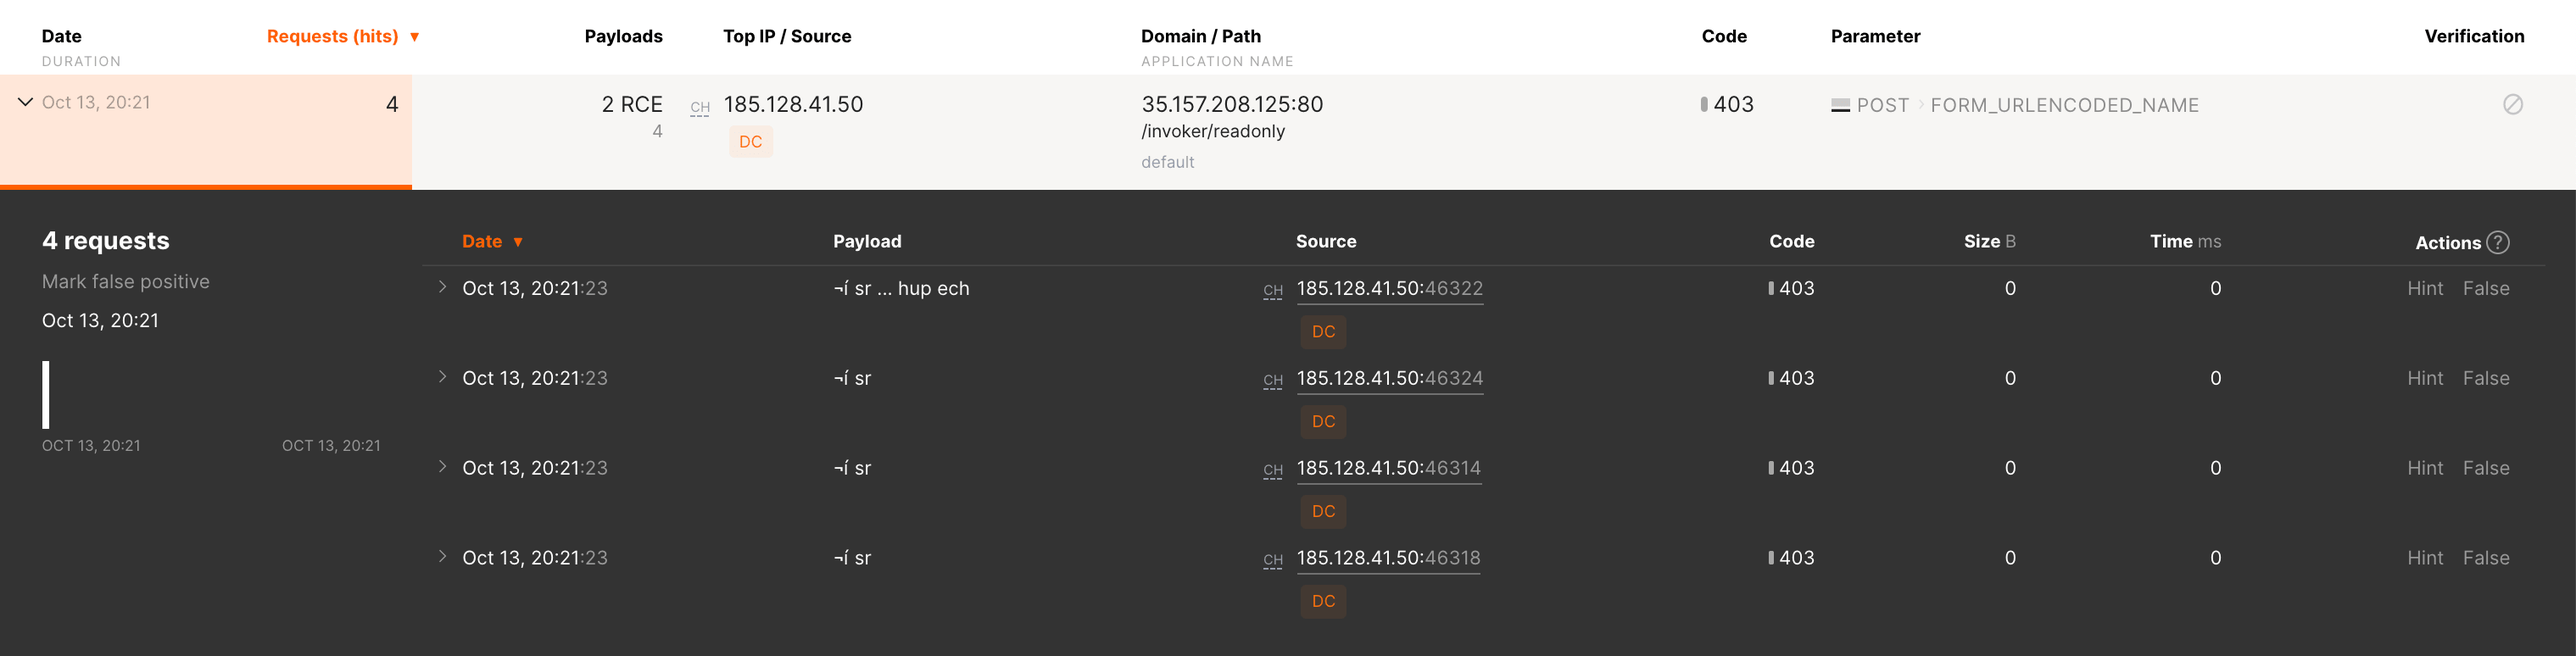
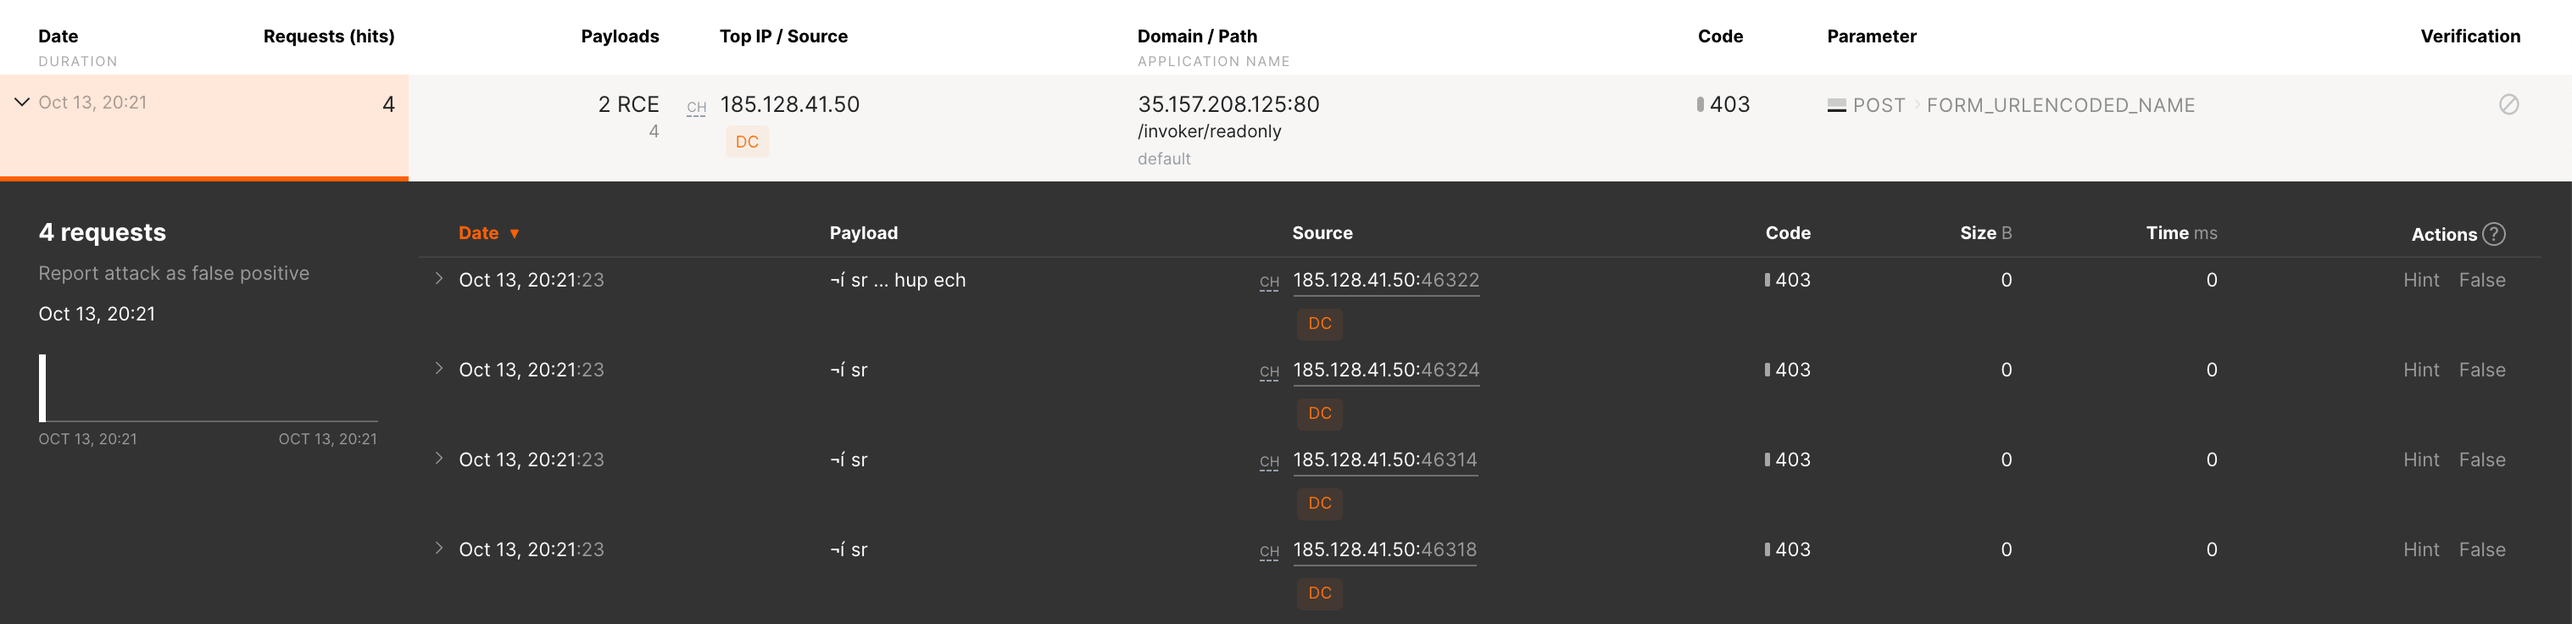
DOCS-1012 update text to report attack as false positive

diff --git a/docs/2.14/user-guides/events/false-attack.md b/docs/2.14/user-guides/events/false-attack.md
@@ -25,7 +25,7 @@ To mark one request (hit) as a false positive:
 To mark all requests (hits) in the attack as the false positives:
 
 1. Select an attack with valid requests in the **Events** section.
-2. Click **Mark false positive**.
+2. Click **Report attack as false positive**.
 
     ![!False attack](../../images/user-guides/events/analyze-attack.png)
 

diff --git a/docs/2.16/user-guides/events/false-attack.md b/docs/2.16/user-guides/events/false-attack.md
@@ -25,7 +25,7 @@ To mark one request (hit) as a false positive:
 To mark all requests (hits) in the attack as the false positives:
 
 1. Select an attack with valid requests in the **Events** section.
-2. Click **Mark false positive**.
+2. Click **Report attack as false positive**.
 
     ![!False attack](../../images/user-guides/events/analyze-attack.png)
 
